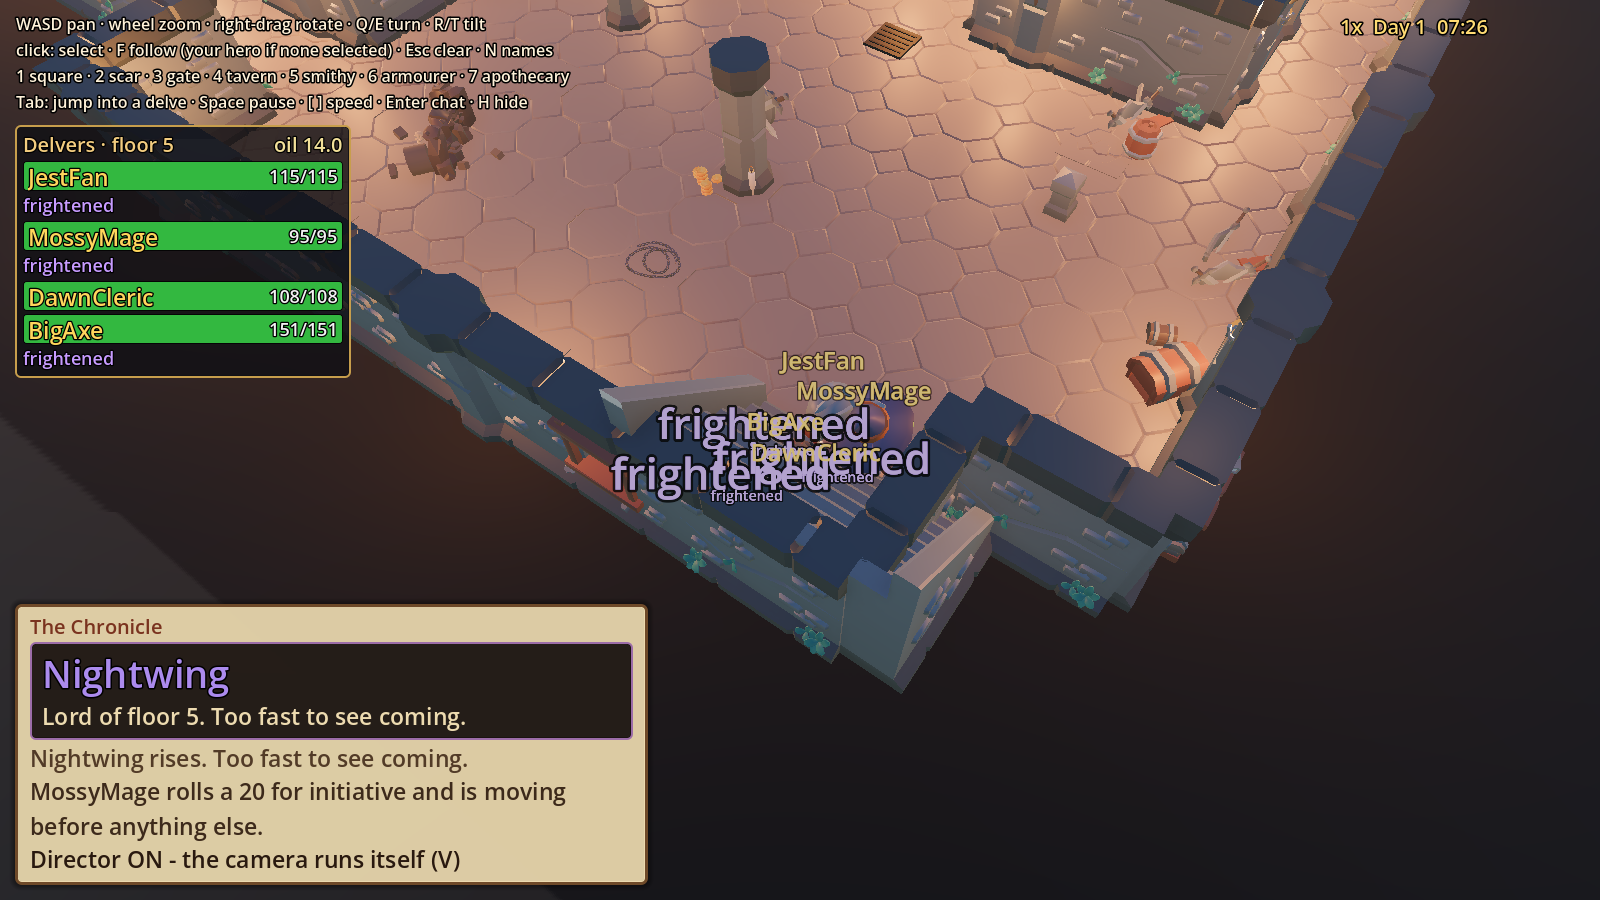
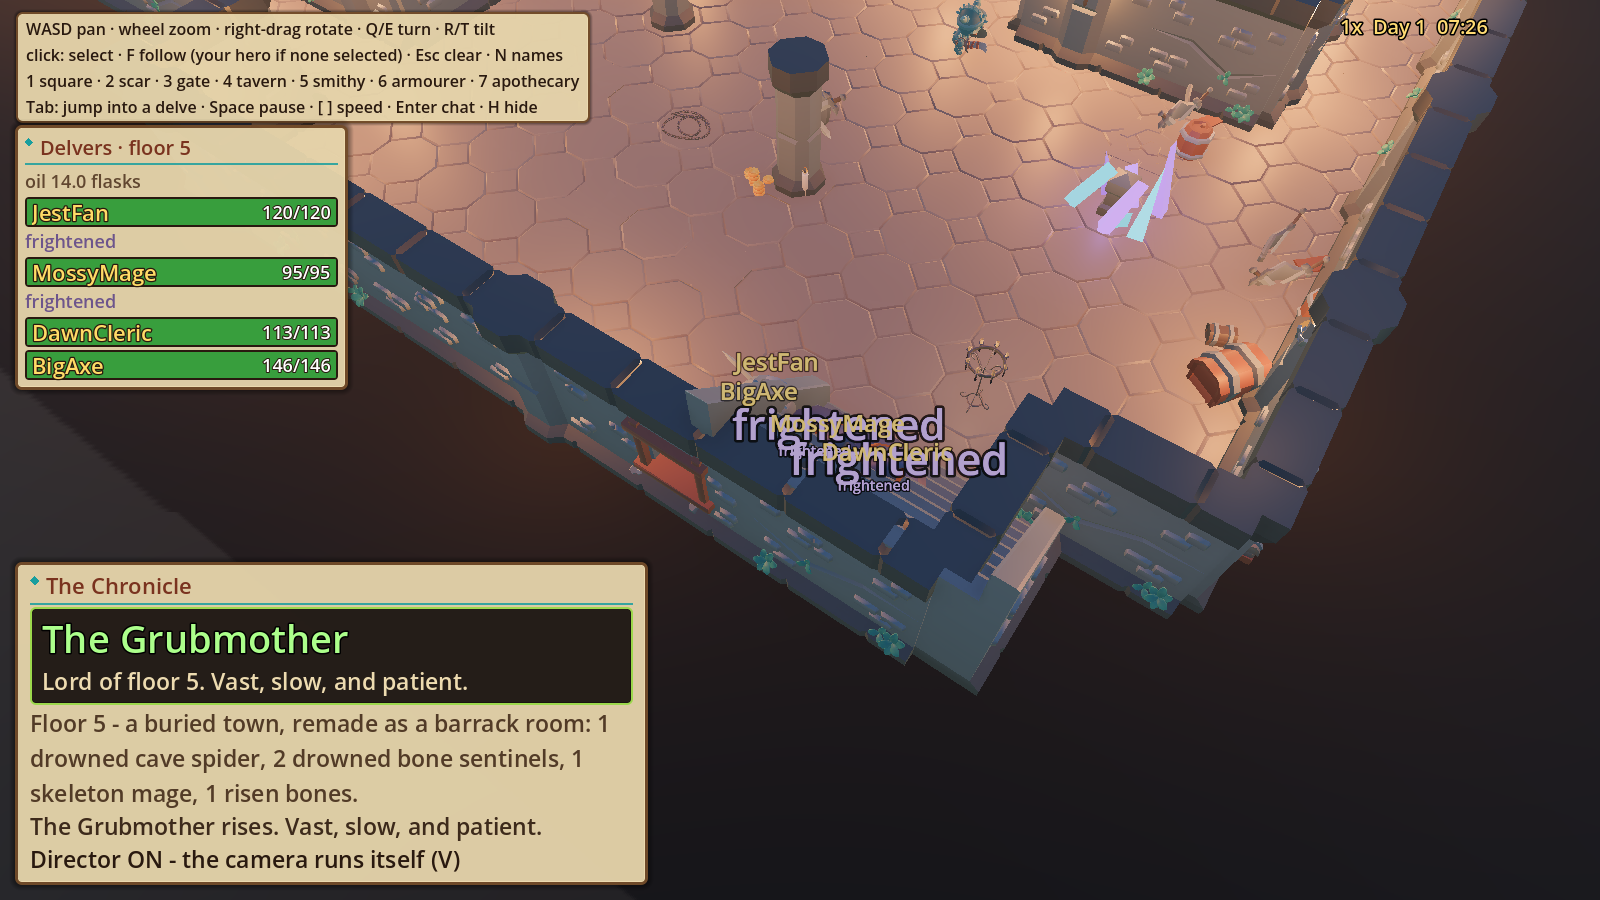
L16: one house theme on every panel - parchment, ink, teal titles, inked bars, chips; compact party frames, chat box clear of the Chronicle

diff --git a/PROGRESS.md b/PROGRESS.md
@@ -1023,3 +1023,22 @@ Per Mr. E's DnD RULE, everything a delver does below is now a d20 or dice roll o
 - tools/_l15_test.gd (headless, new): a Chronicle line 28 px and a roll line 26 px at 1080p; px() maths; F11
   100 -> 125 -> 150 -> 100; the Chronicle restyles bigger at 150%. L15_TEST OK.
 - Checks: parse 0 script errors, _delve_test ENDED all home, _offfloor 0 of 458, TWITCH_PARSE OK, L12 OK, BOSS_TEST OK.
+
+
+## Cycle 74 - L16, one theme for every panel (laptop, 2026-11-11)
+- UiTheme now carries the house style: parchment (0.93, 0.86, 0.69) with an inked edge, ink / soft ink / red-brown
+  ink text, the JestSayin teal as the one accent (a teal diamond before every title and a teal rule under it, the
+  chat box's focus edge), viewers' names in deep gold and the town's band in slate, inked HP bars (green / amber /
+  red), and TITLE / BODY / SMALL sizes. Nothing from the old game's interface.
+- Every panel built from it: the Chronicle and the Guild Roll (house titles); the party frames (parchment block,
+  house title "Delvers · floor 5", oil in ink, name and numbers riding on the inked bar, states under it, darkened
+  to read on parchment); the boss bar on a parchment plate whose edge is the lord's own colour, its name in that
+  colour inked dark; the unit frame on parchment; the key help and the speed as parchment chips; the chat box a
+  parchment chip with a teal focus edge, moved bottom-right, clear of the Chronicle.
+- First render: the party frames with a bar under each name grew into the Chronicle's title - back to the compact
+  row (name on the bar); the chat box sat on the Chronicle - moved.
+- tools/_l16_test.gd (headless, new): the Chronicle, the roll and the boss bar on the house parchment; titles carry
+  the teal; the unit frame, chips, chat and party frames build from the theme. L16_TEST OK. tools/_l16_shot.gd:
+  renders/cycles/20261111_l16 - looked at the whole interface at 1080p: one design, nothing overlapping.
+- _l15_test reads the roll's first row (its title is a themed block now). Checks: parse 0 script errors, _delve_test
+  ENDED all home, _offfloor 0 of 431, TWITCH_PARSE OK, L15 OK, BOSS_TEST OK.

diff --git a/docs/WORK_PLAN.md b/docs/WORK_PLAN.md
@@ -135,9 +135,10 @@ Note: Quaternius "Bestiary" packs are NOT CC0 (QAL licence) - skip them.
       100/125/150%). Test: render at 1920x1080, then downscale to 854x480 (what a phone sees) and LOOK - every
       name and Chronicle line must still be readable. Fix until it is.
       DONE (Cycle 73): UiTheme sizes for 1080p (Chronicle 28 px, roll 26, frames 28, boss bar 44/26), F11 100/125/150, names grow with distance; phone 854x480 frames read; L15_TEST OK.
-- [ ] L16. GUI/UI polish to an RTS/WoW standard: one theme for every panel (parchment + ink, the JestSayin teal
+- [x] L16. GUI/UI polish to an RTS/WoW standard: one theme for every panel (parchment + ink, the JestSayin teal
       as the accent), consistent fonts, icons, frames, spacing; the unit frame, party frames, guild roll,
       chronicle, boss bar, help, chat box all match. Nothing from the old game's interface.
+      DONE (Cycle 74): one house theme in UiTheme (parchment, ink, teal titles and rules, inked bars, chips) on every panel; L16_TEST OK.
 - [ ] L19. More lore: from the reference + the Lore Bible PDF - more Chronicle lines, NPC barks, floor-origin
       text, item and potion flavour, boss intros, town-level announcements; all in the original's voice, never
       contradicting it, never a floor count.
